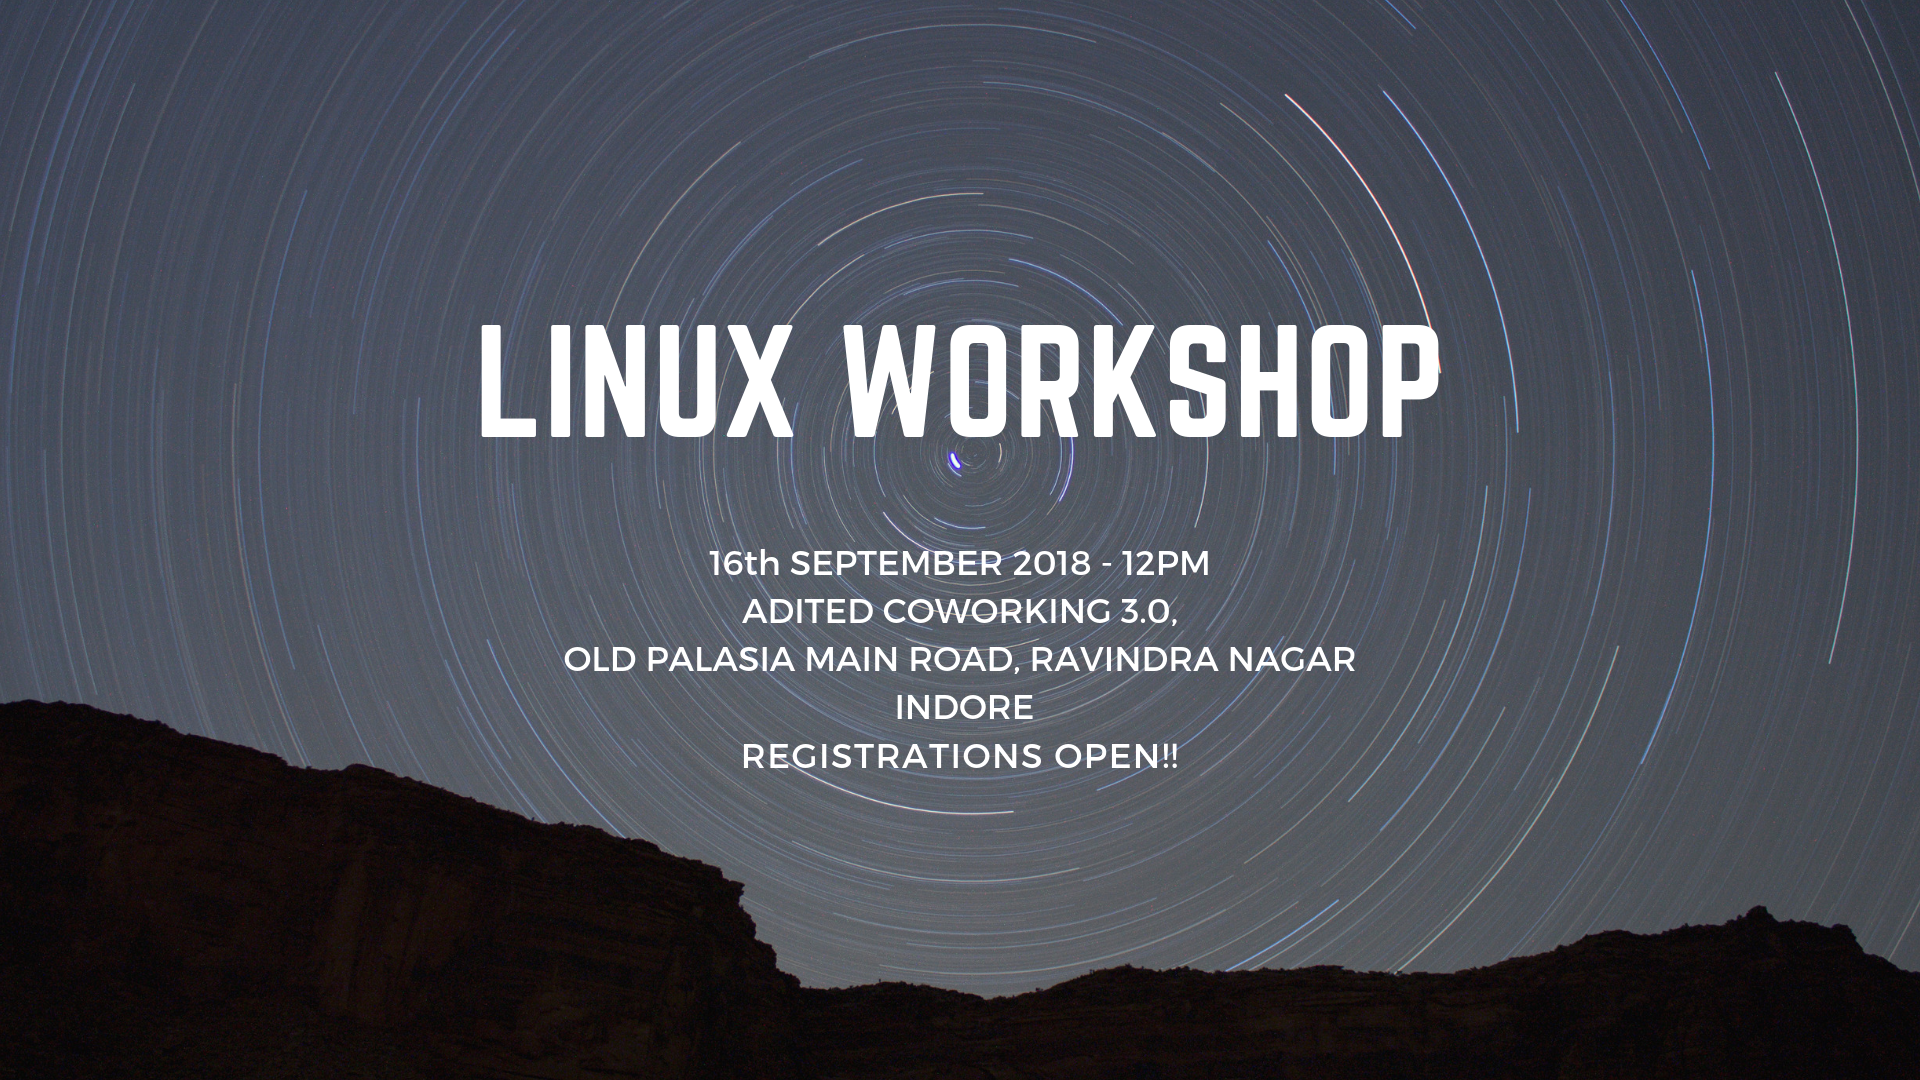
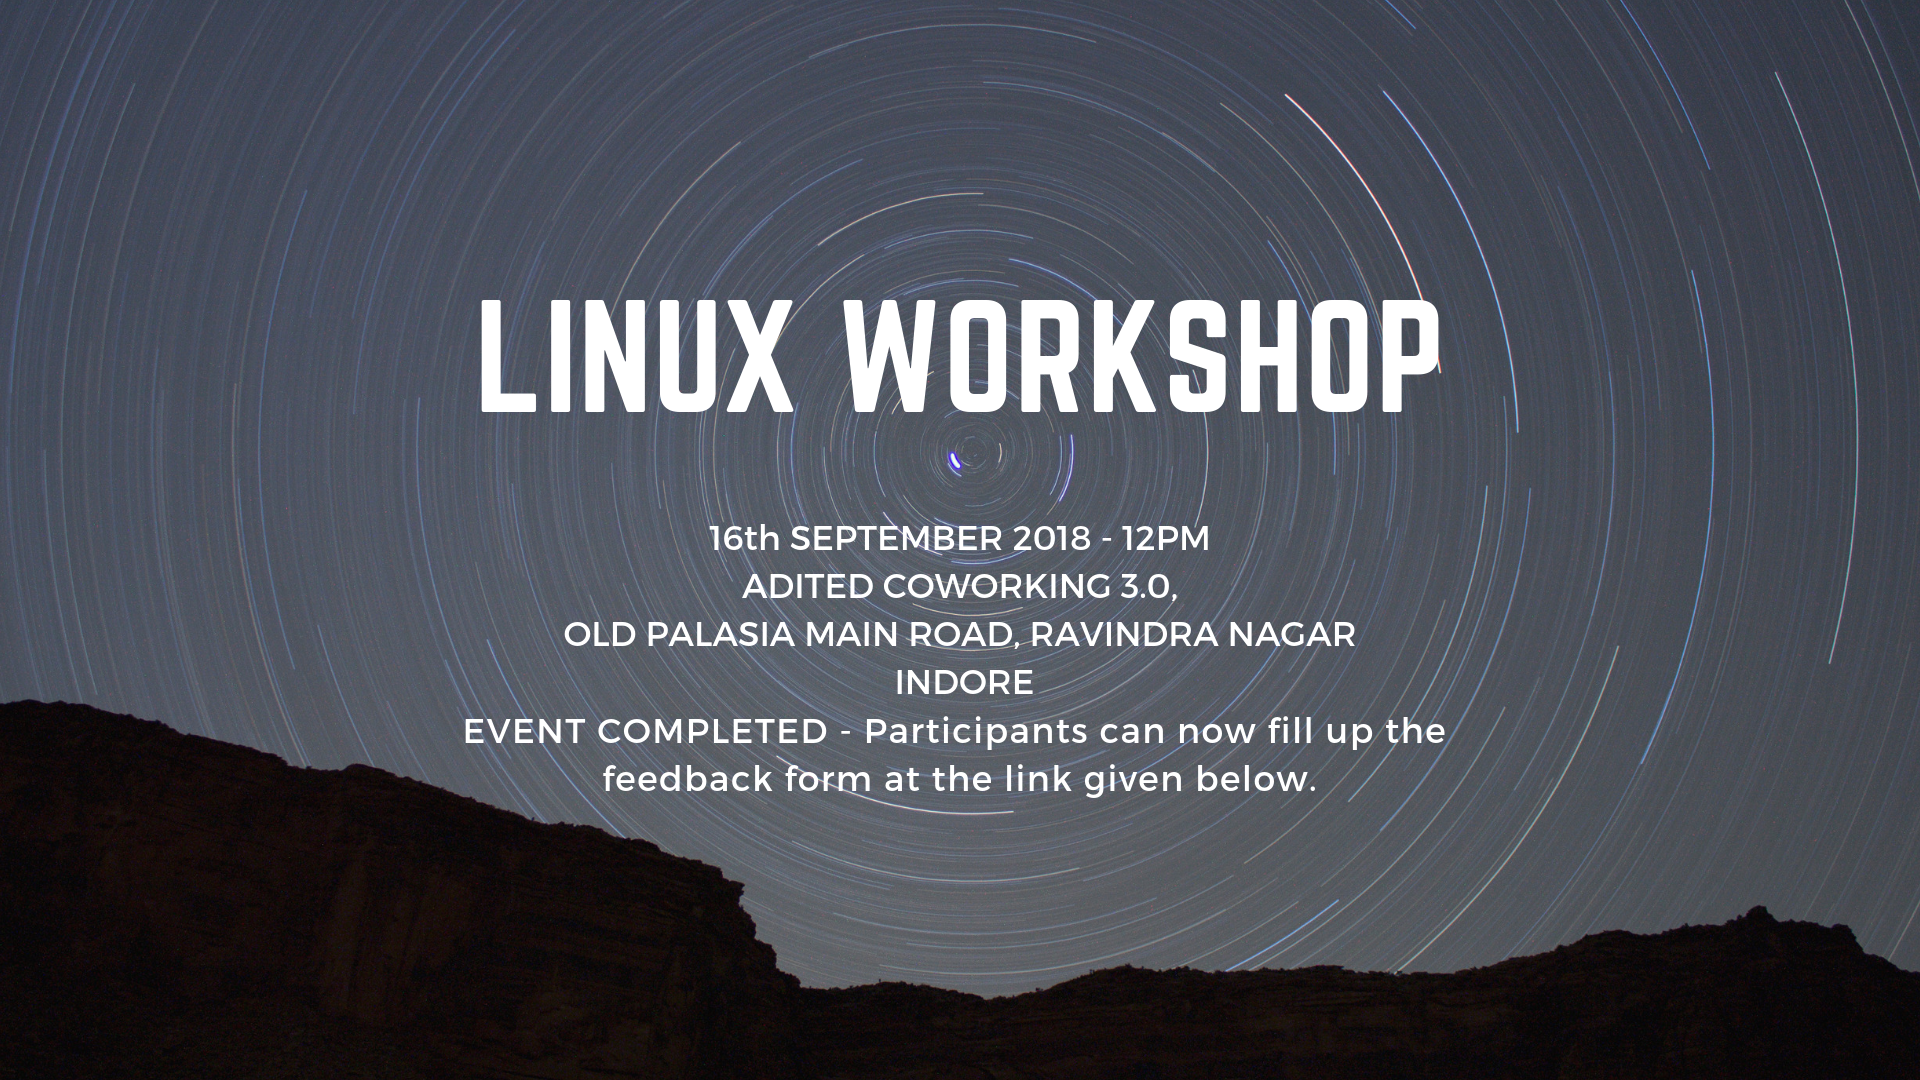
event update

Changed region(s): [[0.25, 0.4889, 0.75, 0.7333], [0.25, 0.275, 0.75, 0.4278]]

diff --git a/index.html b/index.html
@@ -79,8 +79,9 @@
                         <!-- Menu List -->                                
                         <ul class="list-unstyled s-header__nav-menu">
                             <li class="s-header__nav-menu-item"><a class="s-header__nav-menu-link s-header__nav-menu-link-divider -is-active" >Event Registration</a></li>
-                            <li class="s-header__nav-menu-item"><a class="s-header__nav-menu-link s-header__nav-menu-link-divider" target="_blank" href="https://docs.google.com/forms/d/1EYXZoL73B-QvOY1kEDH6PxErgMJpcZwoiHR_0lRE2-w/edit">Linux Workshop</a></li>
+                            <li class="s-header__nav-menu-item"><a class="s-header__nav-menu-link s-header__nav-menu-link-divider" target="_blank" href="https://goo.gl/forms/0aWq3dhlYZM1YtiP2">Feedback Form for Linux Workshop-16/09/2018</a></li>
                             <li class="s-header__nav-menu-item"><a class="s-header__nav-menu-link s-header__nav-menu-link-divider" onclick='alert("Registrations for this event are not open yet.");'>Git and Github Workshop</a></li>
+                            <li class="s-header__nav-menu-item"><a class="s-header__nav-menu-link s-header__nav-menu-link-divider" onclick='alert("Registrations for this event are not open yet.");'>Hacktobathon</a></li>
                             <!--<li class="s-header__nav-menu-item"><a class="s-header__nav-menu-link s-header__nav-menu-link-divider" onclick='alert("Registrations for this event are not open yet.");'>Hacktobathon</a></li>-->
                         </ul>
                         <!-- End Menu List -->
@@ -150,6 +151,16 @@
                         </div>
                     </div>
                 </div>
+                <div class="g-fullheight--xs g-bg-position--center swiper-slide" style="background: url('img/slide3.png');">
+                    <div class="container g-text-center--xs g-ver-center--xs">
+                        <div class="g-margin-b-30--xs">
+                            <h1 class="g-font-size-35--xs g-font-size-45--sm g-font-size-55--md g-color--white">
+                        </div>
+                        <!--<a class="js__popup__youtube" href="https://www.youtube.com/watch?v=lcFYdgZKZxY" title="Intro Video">
+                            <i class="s-icon s-icon--lg s-icon--white-bg g-radius--circle ti-control-play"></i>
+                        </a>-->
+                    </div>
+                </div>
                 <!--
                 <div class="g-fullheight--xs g-bg-position--center swiper-slide" style="background: url('img/slide3.png');">
                     <div class="container g-text-center--xs g-ver-center--xs">
@@ -190,11 +201,11 @@
             <div class="g-text-center--xs g-margin-b-100--xs" >
                 
                 <!--<p class="text-uppercase g-font-size-14--xs g-font-weight--700 g-color--primary g-letter-spacing--2 g-margin-b-25--xs">Welcome to hackSocIndore<br/>Event Registration Links</p>-->
-                <img style="margin-left: 7%; height:30%; width: 30%; float: left;" src="img/linuxposter2.png" />
+                <img style="margin-left: 7%; height:30%; width: 30%; float: left;" src="img/gitposter11.png" />
                 <br/><br/><br/><br/><br/>
-                <h2 class="g-font-size-32--xs g-font-size-36--md"><a href="https://docs.google.com/forms/d/1EYXZoL73B-QvOY1kEDH6PxErgMJpcZwoiHR_0lRE2-w/edit"  target="_blank" class="text-uppercase s-btn s-btn--md s-btn--white-brd g-radius--50">Linux Workshop</a></h2>
-                <h2 class="g-font-size-32--xs g-font-size-36--md"><a  onclick='alert("Registrations for this event are not open yet.");' class="text-uppercase s-btn s-btn--md s-btn--white-brd g-radius--50">Git and Github Workshop</a></h2>
-                <!--<h2 class="g-font-size-32--xs g-font-size-36--md"><a  onclick='alert("Registrations for this event are not open yet.");' class="text-uppercase s-btn s-btn--md s-btn--white-brd g-radius--50">Hacktobathon</a></h2>-->
+                <h2 class="g-font-size-32--xs g-font-size-36--md"><a href="https://goo.gl/forms/0aWq3dhlYZM1YtiP2"  target="_blank" class="text-uppercase s-btn s-btn--md s-btn--white-brd g-radius--50">Feedback form for Linux Workshop</a></h2>
+                <h2 class="g-font-size-32--xs g-font-size-36--md"><a  onclick='alert("Registrations for this event will begin on Tuesday-18/09/2018.");' class="text-uppercase s-btn s-btn--md s-btn--white-brd g-radius--50">Git and Github Workshop</a></h2>
+                <h2 class="g-font-size-32--xs g-font-size-36--md"><a  onclick='alert("Registrations for this event are not open yet.");' class="text-uppercase s-btn s-btn--md s-btn--white-brd g-radius--50">Hacktobathon</a></h2>
 
                 
             </div>
@@ -246,9 +257,17 @@
                 </div>
             -->
                 
-            </div>
-            
         </div>
+        
+        <div>
+                <h2 class="g-font-size-32--xs g-font-size-36--md" style="text-align: center">SPONSORS</h2>
+                <br/><br/>
+                <img style="margin-left: 15%; height:30%; width: 30%; float: left;" src="img/adited-logo.png" />
+                
+                <h3 style="margin-left: 58%; margin-top: 1%; " class="g-font-size-18--xs g-color--white"><a href="http://www.adited.com/"  target="_blank" >Adited Co-working Space 3.0</a> <font style="color:black;"><br/><br/>Our Venue Sponsor for the Linux Workshop.<br/>We are grateful to them for their support.</font> </h3>
+             
+        </div>
+        <br/><br/><br/><br/>
         <!-- End Features -->
 
         <!-- Parallax -->

diff --git a/index_mobile.html b/index_mobile.html
@@ -71,8 +71,9 @@
                         <!-- Menu List -->                                
                         <ul class="list-unstyled s-header__nav-menu">
                             <li class="s-header__nav-menu-item"><a class="s-header__nav-menu-link s-header__nav-menu-link-divider -is-active" >Event Registration</a></li>
-                            <li class="s-header__nav-menu-item"><a class="s-header__nav-menu-link s-header__nav-menu-link-divider" target="_blank" href="https://docs.google.com/forms/d/1EYXZoL73B-QvOY1kEDH6PxErgMJpcZwoiHR_0lRE2-w/edit">Linux Workshop</a></li>
+                            <li class="s-header__nav-menu-item"><a class="s-header__nav-menu-link s-header__nav-menu-link-divider" target="_blank" href="https://goo.gl/forms/0aWq3dhlYZM1YtiP2">Feedback Form for Linux Workshop-16/09/2018</a></li>
                             <li class="s-header__nav-menu-item"><a class="s-header__nav-menu-link s-header__nav-menu-link-divider" onclick='alert("Registrations for this event are not open yet.");'>Git and Github Workshop</a></li>
+                            <li class="s-header__nav-menu-item"><a class="s-header__nav-menu-link s-header__nav-menu-link-divider" onclick='alert("Registrations for this event are not open yet.");'>Hacktobathon</a></li>
                             <!--<li class="s-header__nav-menu-item"><a class="s-header__nav-menu-link s-header__nav-menu-link-divider" onclick='alert("Registrations for this event are not open yet.");'>Hacktobathon</a></li>-->
                         </ul>
                         <!-- End Menu List -->
@@ -120,7 +121,7 @@
         <div class="s-swiper js__swiper-one-item">
             <!-- Swiper Wrapper -->
             <div class="swiper-wrapper">
-                <div class="g-fullheight--xs g-bg-position--center swiper-slide" style="background: url('./linuxpos11.png');">
+                <div class="g-fullheight--xs g-bg-position--center swiper-slide" style="background: url('img/poster_mobileup.png');">
                     <div class="container g-text-center--xs g-ver-center--xs">
                         <div class="g-margin-b-30--xs">
                             <h1 class="g-font-size-35--xs g-font-size-45--sm g-font-size-55--md g-color--white">
@@ -182,11 +183,11 @@
             <div class="g-text-center--xs g-margin-b-100--xs" >
                 
                 <!--<p class="text-uppercase g-font-size-14--xs g-font-weight--700 g-color--primary g-letter-spacing--2 g-margin-b-25--xs">Welcome to hackSocIndore<br/>Event Registration Links</p>-->
-                <img style="margin-left: 7%; height:30%; width: 30%; float: left;" src="img/linuxposter2.png" />
+                <img style="margin-left: 7%; height:30%; width: 30%; float: left;" src="img/gitposter11.png" />
                 <br/><br/><br/><br/><br/>
-                <h2 class="g-font-size-32--xs g-font-size-36--md"><a href="https://docs.google.com/forms/d/1EYXZoL73B-QvOY1kEDH6PxErgMJpcZwoiHR_0lRE2-w/edit"  target="_blank" class="text-uppercase s-btn s-btn--md s-btn--white-brd g-radius--50">Linux Workshop</a></h2>
-                <h2 class="g-font-size-32--xs g-font-size-36--md"><a  onclick='alert("Registrations for this event are not open yet.");' class="text-uppercase s-btn s-btn--md s-btn--white-brd g-radius--50">Git and Github Workshop</a></h2>
-                <!--<h2 class="g-font-size-32--xs g-font-size-36--md"><a  onclick='alert("Registrations for this event are not open yet.");' class="text-uppercase s-btn s-btn--md s-btn--white-brd g-radius--50">Hacktobathon</a></h2>-->
+                <h2 class="g-font-size-32--xs g-font-size-36--md"><a href="https://goo.gl/forms/0aWq3dhlYZM1YtiP2"  target="_blank" class="text-uppercase s-btn s-btn--md s-btn--white-brd g-radius--50">Feedback form for Linux Workshop</a></h2>
+                <h2 class="g-font-size-32--xs g-font-size-36--md"><a  onclick='alert("Registrations for this event will begin on Tuesday-18/09/2018.");' class="text-uppercase s-btn s-btn--md s-btn--white-brd g-radius--50">Git and Github Workshop</a></h2>
+                <h2 class="g-font-size-32--xs g-font-size-36--md"><a  onclick='alert("Registrations for this event are not open yet.");' class="text-uppercase s-btn s-btn--md s-btn--white-brd g-radius--50">Hacktobathon</a></h2>
 
                 
             </div>
@@ -241,6 +242,15 @@
             </div>
             
         </div>
+        <div>
+                <h2 class="g-font-size-32--xs g-font-size-36--md" style="text-align: center">SPONSORS</h2>
+                <br/><br/>
+                <img style="margin-left: 15%; height:30%; width: 30%; float: left;" src="img/adited-logo.png" />
+                
+                <h3 style="margin-left: 58%; margin-top: 1%; " class="g-font-size-18--xs g-color--white"><a href="http://www.adited.com/"  target="_blank" >Adited Co-working Space 3.0</a> <font style="color:black;"><br/><br/>Our Venue Sponsor for the Linux Workshop.<br/>We are grateful to them for their support.</font> </h3>
+             
+        </div>
+        <br/><br/><br/><br/>
         <!-- End Features -->
 
         <!-- Parallax -->
